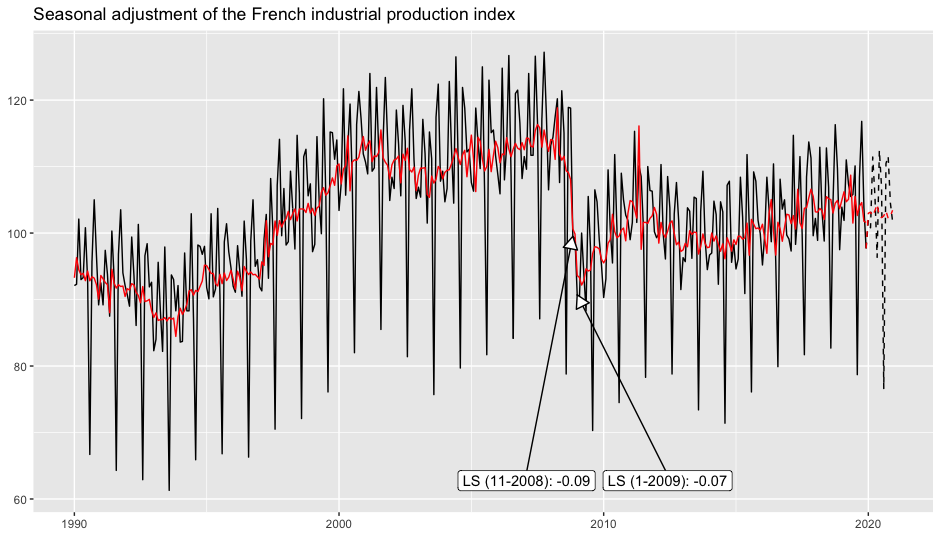
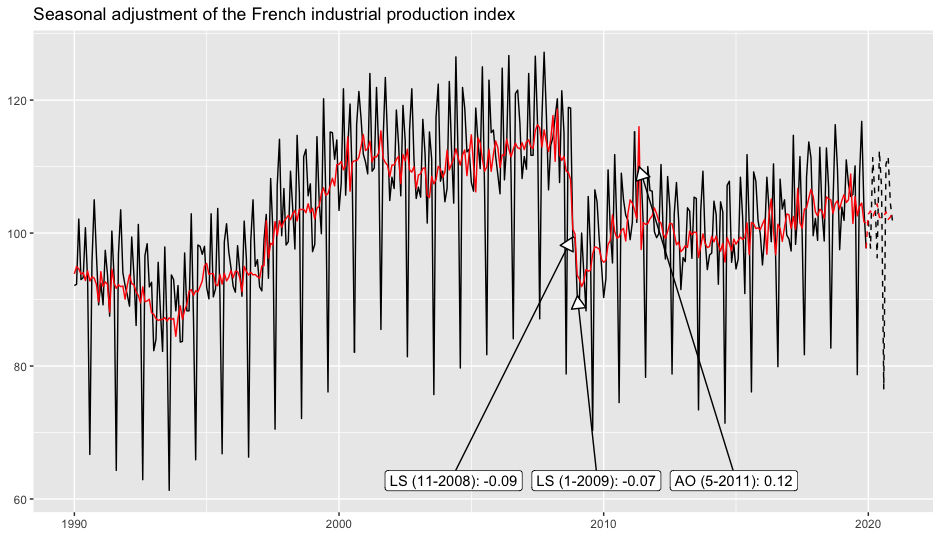
readme

diff --git a/README.md b/README.md
@@ -3,21 +3,18 @@
 
 # ggdemetra3 <img src="man/figures/logo.png" align="right" alt="" />
 
-[![R-CMD-check](https://github.com/AQLT/ggdemetra/workflows/R-CMD-check/badge.svg)](https://github.com/AQLT/ggdemetra/actions)
-[![CRAN\_Status\_Badge](http://www.r-pkg.org/badges/version/ggdemetra)](https://cran.r-project.org/package=ggdemetra)
-[![CRAN last
-release](http://www.r-pkg.org/badges/last-release/ggdemetra)](https://cran.r-project.org/package=ggdemetra)
-[![CRAN monthly
-downloads](http://cranlogs.r-pkg.org/badges/ggdemetra?color=lightgrey)](https://cran.r-project.org/package=ggdemetra)
-[![CRAN
-downloads](http://cranlogs.r-pkg.org/badges/grand-total/ggdemetra?color=lightgrey)](https://cran.r-project.org/package=ggdemetra)
+[![R-CMD-check](https://github.com/AQLT/ggdemetra3/workflows/R-CMD-check/badge.svg)](https://github.com/AQLT/ggdemetra3/actions)
+<!-- [![CRAN_Status_Badge](http://www.r-pkg.org/badges/version/ggdemetra)](https://cran.r-project.org/package=ggdemetra3) -->
+<!-- [![CRAN last release](http://www.r-pkg.org/badges/last-release/ggdemetra)](https://cran.r-project.org/package=ggdemetra3) -->
+<!-- [![CRAN monthly downloads](http://cranlogs.r-pkg.org/badges/ggdemetra?color=lightgrey)](https://cran.r-project.org/package=ggdemetra3) -->
+<!-- [![CRAN downloads](http://cranlogs.r-pkg.org/badges/grand-total/ggdemetra?color=lightgrey)](https://cran.r-project.org/package=ggdemetra3) -->
 
 ## Overview
 
-ggdemetra is an extension of
+ggdemetra3 is an extension of
 [ggplot2](https://github.com/tidyverse/ggplot2) to add seasonal
 adjustment statistics to your plots. The seasonal adjustment process is
-done with [RJDemetra](https://github.com/jdemetra/rjdemetra) that is an
+done with [RJDemetra3](https://github.com/palatej/rjdemetra3) that is an
 R interface to [JDemetra+](https://github.com/jdemetra/jdemetra-app),
 the seasonal adjustment software [officially
 recommended](https://ec.europa.eu/eurostat/cros/system/files/Jdemetra_%20release.pdf)
@@ -45,12 +42,9 @@ Since RJDemetra requires Java SE 8 or later version, the same
 requirements are also needed for ggdemetra.
 
 ``` r
-# Install release version from CRAN
-install.packages("ggdemetra")
-
 # Install development version from GitHub
 # install.packages("devtools")
-devtools::install_github("AQLT/ggdemetra")
+devtools::install_github("AQLT/ggdemetra3")
 ```
 
 If you have troubles with the installation of RJDemetra, check the
@@ -75,14 +69,15 @@ and of the seasonal adjusted series:
 
 ``` r
 library(ggplot2)
-library(ggdemetra)
-spec <- RJDemetra::x13_spec("RSA3", tradingdays.option = "WorkingDays")
+library(ggdemetra3)
+spec <- rjd3x13::spec_x13_default("rsa3")
+spec <- rjd3arima::set_tradingdays(spec, option = "WorkingDays")
 p_ipi_fr <- ggplot(data = ipi_c_eu_df, mapping = aes(x = date, y = FR)) +
     geom_line() +
     labs(title = "Seasonal adjustment of the French industrial production index",
          x = NULL, y = NULL)
 p_sa <- p_ipi_fr +
-    geom_sa(component = "y_f", linetype = 2,
+    geom_sa(component = "y_f(12)", linetype = 2,
             spec = spec) + 
     geom_sa(component = "sa", color = "red") +
     geom_sa(component = "sa_f", color = "red", linetype = 2)
@@ -98,7 +93,6 @@ point and the estimated coefficients:
 p_sa + 
     geom_outlier(geom = "label_repel",
                  coefficients = TRUE,
-                 vjust = 4,
                  ylim = c(NA, 65), force = 10,
                  arrow = arrow(length = unit(0.03, "npc"),
                                type = "closed", ends = "last"),
@@ -121,9 +115,9 @@ p_sa +
 To add a table of diagnostics below the plot:
 
 ``` r
-diagnostics <- c(`Combined test` = "diagnostics.combined.all.summary",
-                 `Residual qs-test (p-value)` = "diagnostics.qs",
-                 `Residual f-test (p-value)` = "diagnostics.ftest")
+diagnostics <- c(`Q-M2` = "m-statistics.q-m2",
+                 `Residual qs-test (p-value)` = "diagnostics.seas-sa-qs",
+                 `Residual f-test (p-value)` = "diagnostics.seas-sa-f")
 p_diag <- ggplot(data = ipi_c_eu_df, mapping = aes(x = date, y = FR)) +
     geom_diagnostics(diagnostics = diagnostics,
                      table_theme = gridExtra::ttheme_default(base_size = 8),
@@ -137,8 +131,8 @@ gridExtra::grid.arrange(p_sa, p_diag,
 <img src="man/figures/README-unnamed-chunk-6-1.png" width="100%" style="display: block; margin: auto;" />
 
 See the
-[vignette](https://aqlt.github.io/ggdemetra/articles/ggdemetra.html) for
-more details.
+[vignette](https://aqlt.github.io/ggdemetra3/articles/ggdemetra3.html)
+for more details.
 
 Note that `ts` objects cannot be directly used in `ggplot2`. To convert
 `ts` or `mts` object to `data.frame`, you can use the `ts2df()`
